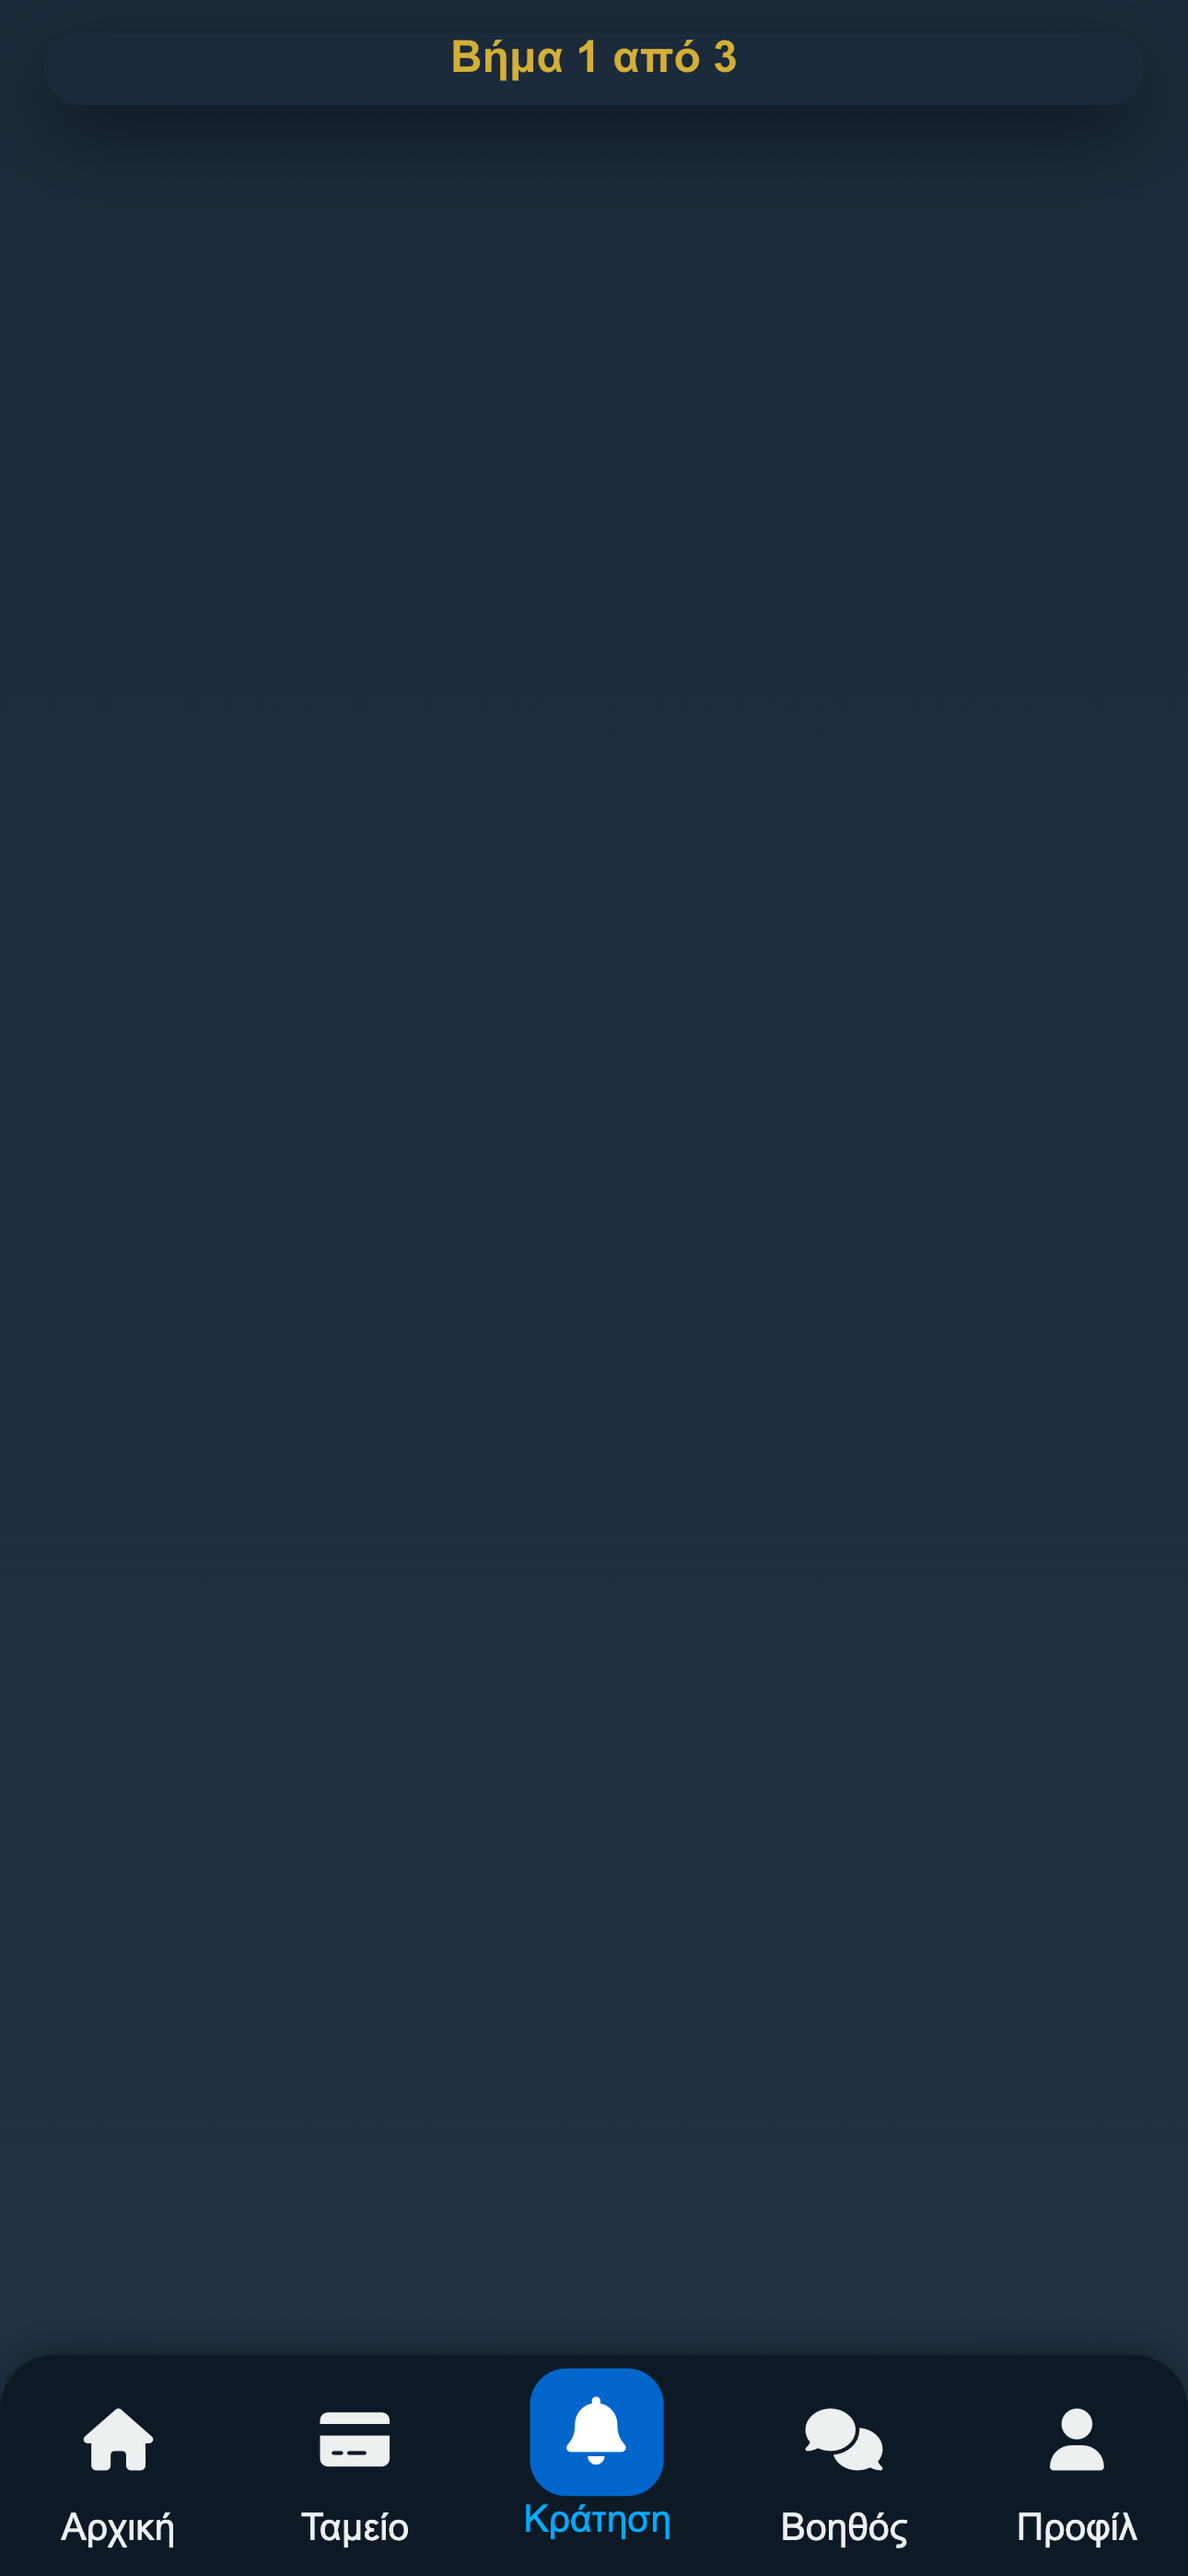
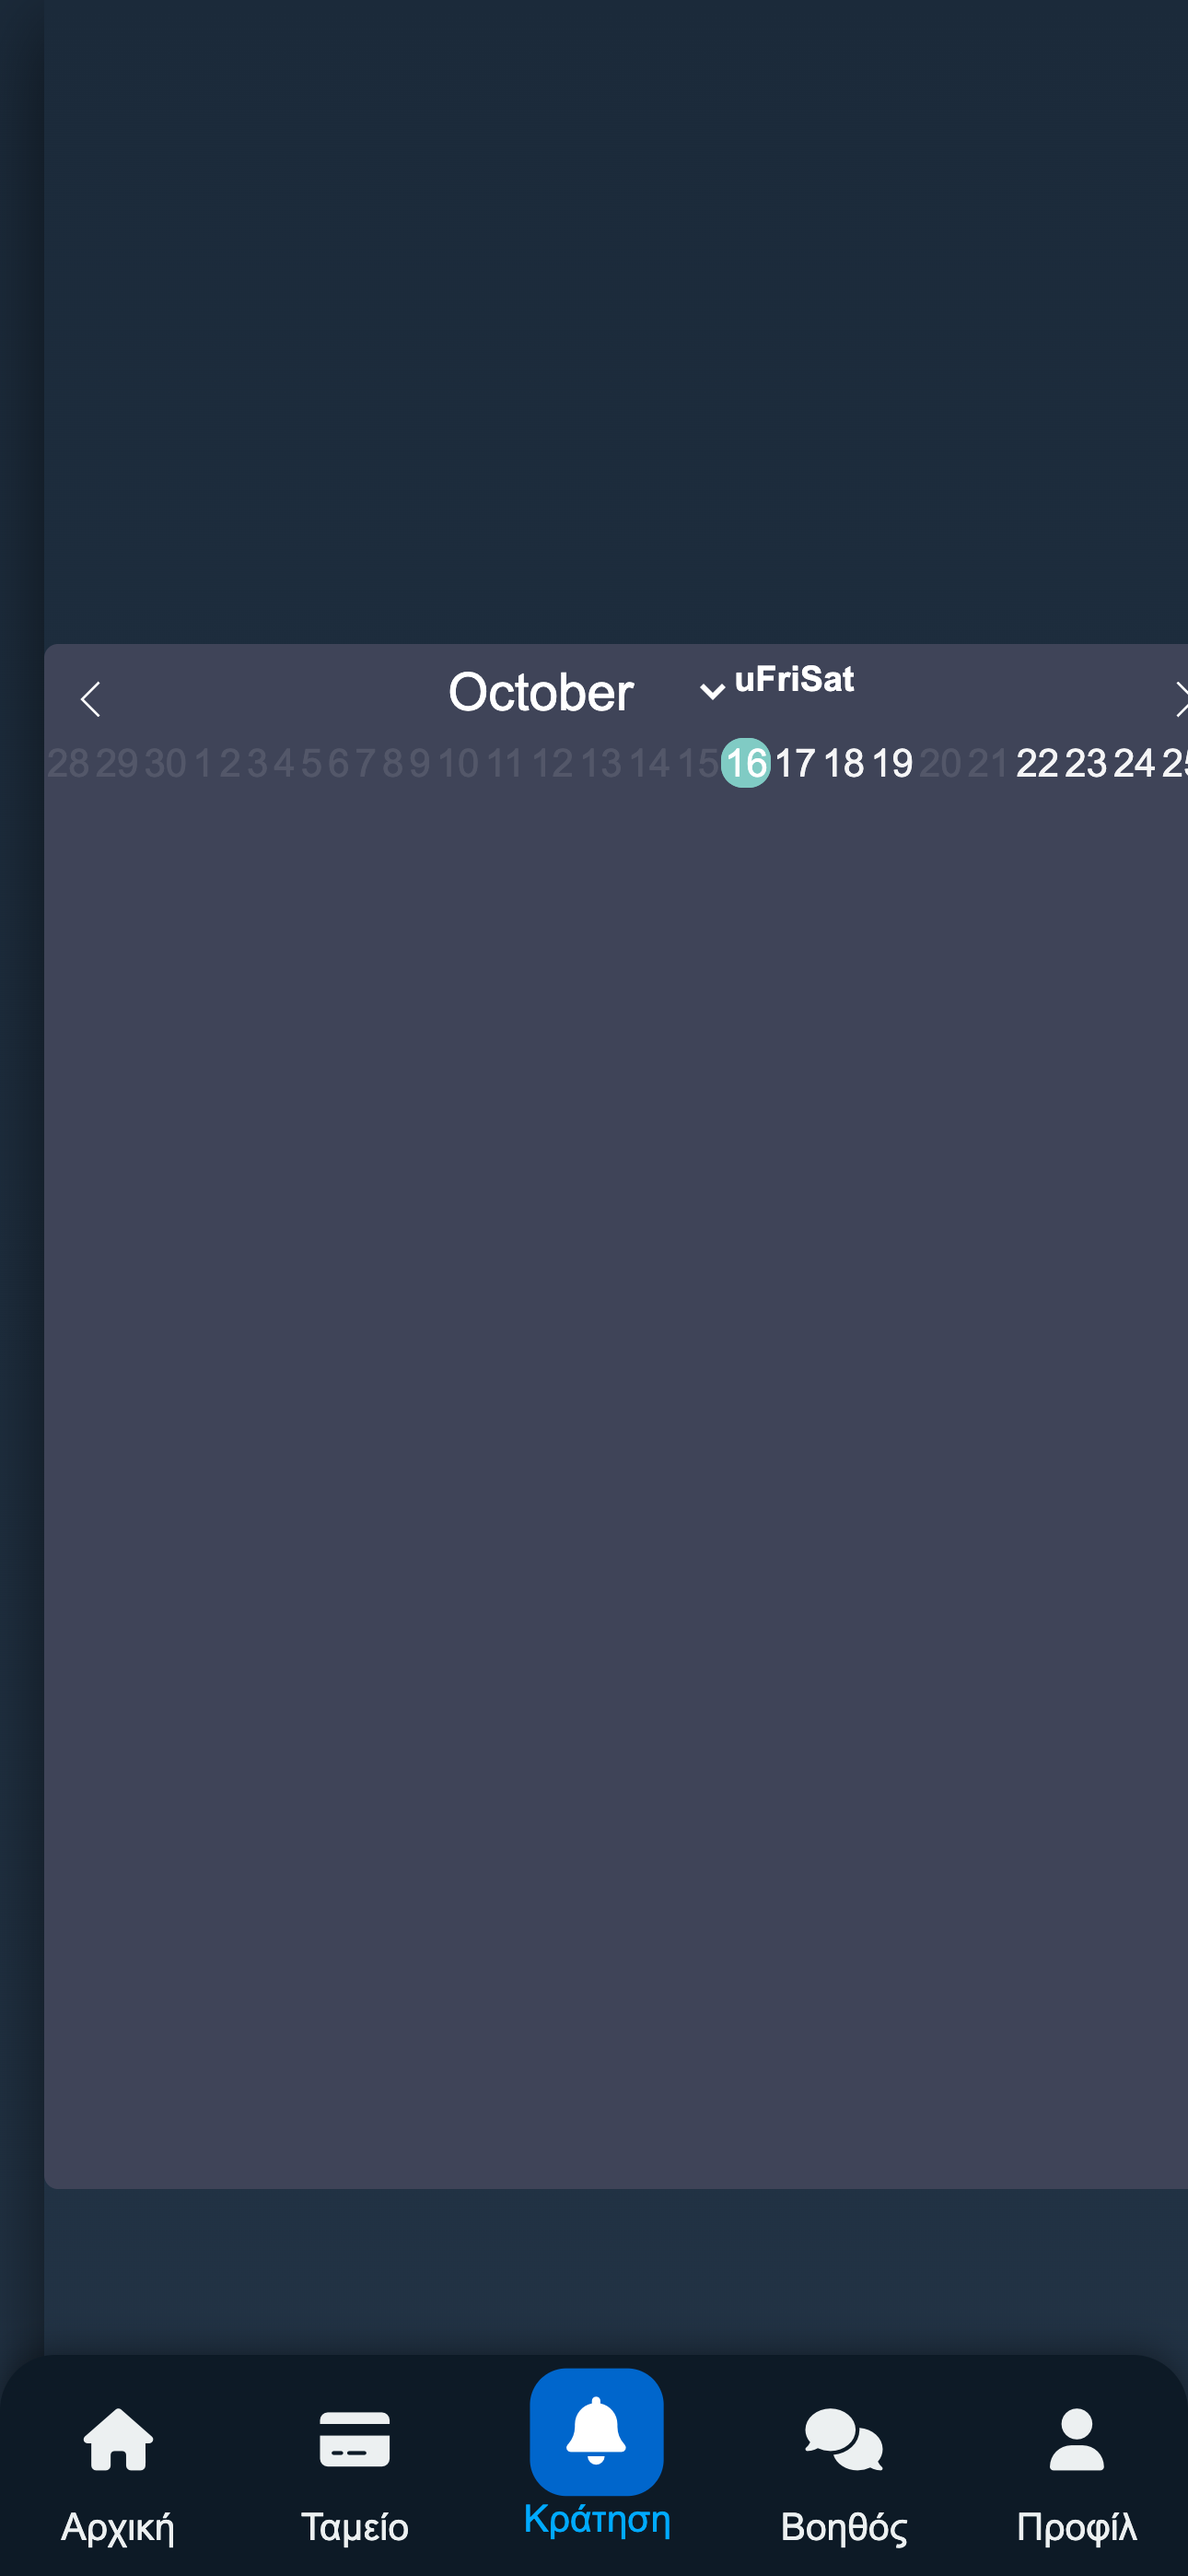
236

diff --git a/public/css/booking.css b/public/css/booking.css
@@ -3,30 +3,85 @@
 /* Cinematic entrance for overlay content */
 @keyframes bookingFadeSlideUp {
   0% { opacity: 0; transform: translateY(10px); }
-  #bookingOverlay {
-    background: linear-gradient(180deg, #1B2A3A 0%, #223345 100%) !important;
-    min-height: 100vh;
-    #bookingOverlay {
-      background: linear-gradient(180deg, #1B2A3A 0%, #223345 100%) !important;
-      min-height: 100vh;
-      width: 100%;
-      display: block;
-    }
+}
 
-    #bookingOverlay .overlay-inner,
-    #bookingOverlay .close-overlay,
-    #bookingOverlay .booking-step,
-    #bookingOverlay .calendar-full,
-    #bookingOverlay #calendarFull,
-    #bookingOverlay .flatpickr-calendar {
-      display: none !important;
-      visibility: hidden !important;
-    }
+#bookingOverlay {
+  background: linear-gradient(180deg, #1B2A3A 0%, #223345 100%) !important;
+  min-height: 100vh;
+  width: 100%;
+  display: block;
+}
 
-    footer {
-      display: block !important;
-      visibility: visible !important;
-      position: fixed;
-      bottom: 0;
-      width: 100%;
-    }
+/* Hide non-calendar UI but keep Step 1 containers visible so calendar can render */
+/* Keep #step1 and its .calendar-card in the layout; hide other siblings and non-essential elements */
+#bookingOverlay .overlay-inner > :not(#step1):not(.calendar-full),
+#bookingOverlay .close-overlay,
+#bookingOverlay button,
+#bookingOverlay .btn,
+#bookingOverlay h1,
+#bookingOverlay h2,
+#bookingOverlay h3,
+#bookingOverlay p { display: none !important; visibility: hidden !important; }
+
+/* Inside step1, hide meta/actions to keep calendar-only view */
+#bookingOverlay #step1 .step-meta,
+#bookingOverlay #step1 .booking-actions,
+#bookingOverlay #step1 #availabilityBlock { display: none !important; visibility: hidden !important; }
+
+/* Ensure the calendar subtree is visible */
+#bookingOverlay .overlay-inner,
+#bookingOverlay .calendar-full,
+#bookingOverlay .calendar-full *,
+#bookingOverlay .flatpickr-calendar,
+#bookingOverlay .flatpickr-calendar * { display: initial !important; visibility: visible !important; }
+
+/* Reveal only the container and the calendar */
+#bookingOverlay .overlay-inner {
+  display: block !important;
+  visibility: visible !important;
+  background: transparent !important;
+  width: 100% !important;
+  height: 100% !important;
+  margin: 0 !important;
+  padding: 0 !important;
+  border: none !important;
+  position: relative !important; /* anchor for absolute calendar */
+}
+
+/* Ensure step1 and the calendar card are visible containers (ancestors of .calendar-full) */
+#bookingOverlay #step1,
+#bookingOverlay #step1 .calendar-card { display: block !important; visibility: visible !important; background: transparent !important; border: none !important; box-shadow: none !important; margin: 0 !important; padding: 0 !important; }
+
+/* Middle band: 60% height, with 25% top empty and 15% bottom empty */
+#bookingOverlay .calendar-full {
+  display: block !important;
+  visibility: visible !important;
+  position: absolute !important;
+  top: 25vh; left: 0; right: 0;
+  width: 100%; height: 60vh;
+  margin: 0 !important; padding: 0 !important;
+  border: none !important; border-radius: 0 !important;
+  background: transparent !important; box-shadow: none !important;
+  overflow: hidden !important;
+}
+
+/* Hide the input itself; render only the inline calendar UI */
+#bookingOverlay #calendarFull {
+  display: block !important; /* required for flatpickr to attach */
+  position: absolute !important;
+  width: 0 !important; height: 0 !important;
+  opacity: 0 !important; pointer-events: none !important;
+  visibility: hidden !important;
+}
+
+/* Make the inline flatpickr calendar fill the middle band edge-to-edge */
+#bookingOverlay .flatpickr-calendar {
+  display: block !important;
+  visibility: visible !important;
+  position: absolute !important;
+  inset: 0 !important;
+  width: 100% !important; height: 100% !important;
+  box-shadow: none !important; border: none !important;
+}
+
+/* Footer is globally styled in style.css; avoid sizing overrides here */

diff --git a/tools/debug_calendar.js b/tools/debug_calendar.js
@@ -1,0 +1,87 @@
+const puppeteer = require('puppeteer');
+
+(async () => {
+  const browser = await puppeteer.launch({ headless: true });
+  const page = await browser.newPage();
+  const logs = [];
+  page.on('console', msg => logs.push({ type: msg.type(), text: msg.text() }));
+  page.on('pageerror', err => logs.push({ type: 'pageerror', text: err.message }));
+
+  try {
+    await page.goto('http://localhost:3000/trips/trip.html?id=olympia', { waitUntil: 'networkidle2', timeout: 30000 });
+    await page.waitForSelector('footer a.central-btn', { timeout: 15000 });
+    await page.click('footer a.central-btn');
+    await page.waitForSelector('#bookingOverlay', { timeout: 15000 });
+
+    // Wait a bit for main.js to inject step1 and flatpickr
+    await page.waitForFunction(() => !!document.querySelector('#calendarFull'), { timeout: 15000 });
+
+    // Collect diagnostics about calendar element and flatpickr
+    const diag = await page.evaluate(() => {
+      const ret = { flags: {}, nodes: {}, styles: {}, errors: [] };
+      try { ret.flags.GW_DISABLE_BOOKING_CALENDAR = !!window.GW_DISABLE_BOOKING_CALENDAR; } catch(e) { ret.flags.GW_DISABLE_BOOKING_CALENDAR = 'unavailable'; }
+      ret.flags.hasFlatpickr = !!(window.flatpickr);
+
+      const overlay = document.getElementById('bookingOverlay');
+      const step1 = document.getElementById('step1');
+      const calInput = document.getElementById('calendarFull');
+      const fp = document.querySelector('#bookingOverlay .flatpickr-calendar');
+      ret.nodes.overlayActive = overlay && (overlay.classList.contains('active') || overlay.style.display !== 'none');
+      ret.nodes.step1Exists = !!step1;
+      ret.nodes.calInputExists = !!calInput;
+      ret.nodes.fpExists = !!fp;
+
+      function dumpComputed(el) {
+        if (!el) return null;
+        const cs = getComputedStyle(el);
+        return {
+          display: cs.display,
+          visibility: cs.visibility,
+          opacity: cs.opacity,
+          position: cs.position,
+          width: el.offsetWidth,
+          height: el.offsetHeight,
+          top: cs.top,
+          left: cs.left,
+          zIndex: cs.zIndex
+        };
+      }
+
+      ret.styles.overlay = dumpComputed(overlay);
+      ret.styles.overlayInner = dumpComputed(document.querySelector('#bookingOverlay .overlay-inner'));
+      ret.styles.step1 = dumpComputed(step1);
+      ret.styles.calendarCard = dumpComputed(step1 && step1.querySelector('.calendar-card'));
+      ret.styles.calendarFull = dumpComputed(step1 && step1.querySelector('.calendar-full'));
+      ret.styles.fp = dumpComputed(fp);
+
+      // Check bounding rects
+      const rects = {};
+      try { rects.calendarFull = (step1 && step1.querySelector('.calendar-full')) ? step1.querySelector('.calendar-full').getBoundingClientRect() : null; } catch(e){}
+      try { rects.fp = fp ? fp.getBoundingClientRect() : null; } catch(e){}
+      ret.rects = rects;
+
+      // Check input value (flatpickr should set defaultDate)
+      ret.inputValue = calInput && calInput.value || '';
+
+      return ret;
+    });
+
+    console.log('---CALENDAR_DEBUG_START---');
+    console.log(JSON.stringify(diag, null, 2));
+    console.log('---CALENDAR_DEBUG_END---');
+
+    if (!diag.nodes.fpExists) {
+      console.error('flatpickr-calendar element not found.');
+      process.exitCode = 2;
+    } else {
+      // Save a screenshot
+      await page.screenshot({ path: 'debug_calendar.png' });
+      console.log('Saved debug_calendar.png');
+    }
+  } catch (e) {
+    console.error('debug_calendar failed:', e && e.message ? e.message : e);
+    process.exitCode = 2;
+  } finally {
+    await browser.close();
+  }
+})();

diff --git a/public/js/main.js b/public/js/main.js
@@ -10,6 +10,10 @@ const G = {
   error: (...a) => { if (G.debug) console.error(...a); }
 };
 
+// Temporary flag to disable any flatpickr calendar initialization in the booking overlay
+// Allow only the inline calendar inside the overlay; prevent other calendars/popups
+const GW_DISABLE_BOOKING_CALENDAR = false;
+
 // Global i18n helpers used by multiple blocks
 function getCurrentLang() {
   return (window.currentI18n && window.currentI18n.lang) || localStorage.getItem('gw_lang') || 'el';
@@ -306,7 +310,7 @@ document.addEventListener("DOMContentLoaded", () => {
           const calEl = document.getElementById('calendarFull');
           const trip = window.__loadedTrip || {};
           const disabledDates = trip.unavailable_dates || [];
-          if (window.flatpickr && calEl) {
+          if (!GW_DISABLE_BOOKING_CALENDAR && window.flatpickr && calEl) {
             window.flatpickr(calEl, {
               inline: true,
               altInput: false,
@@ -689,7 +693,7 @@ document.addEventListener("DOMContentLoaded", () => {
               dateEl.setAttribute('min', iso);
               // init flatpickr for a modern calendar picker (dark theme)
               try {
-                if (window.flatpickr) {
+                if (!GW_DISABLE_BOOKING_CALENDAR && window.flatpickr) {
                   window.flatpickr(dateEl, {
                     altInput: true,
                     altFormat: 'd F Y',

diff --git a/public/css/style.css b/public/css/style.css
@@ -22,7 +22,7 @@ body {
   background: var(--site-gradient);
   color: #ecf0f1;
   text-align: center;
-  padding-bottom: 80px; /* χώρος για footer */
+  padding-bottom: 64px; /* reserve space matching global footer height */
   transition: background 0.4s, color 0.4s;
 }
 
@@ -89,9 +89,10 @@ footer {
   display: flex;
   justify-content: space-around;
   align-items: center;
-  padding: 0.6rem 0;
+  /* unified height/padding will be enforced below; keep minimal here */
+  padding: 8px 0;
   border-radius: 20px 20px 0 0;
-  z-index: 1000;
+  z-index: 12000; /* above overlay (which is z-index: 10000) */
   box-shadow: 0 -2px 12px rgba(0,0,0,0.4);
 }
 footer a {
@@ -385,6 +386,9 @@ html.overlay-open { overflow: hidden; }
 body.rtl footer {
   direction: ltr; /* keep layout left-to-right */
 }
+
+/* Global enforcement: consistent footer height and vertical padding across all pages */
+footer { height: 64px !important; padding: 8px 0 !important; }
 
 
 /* ===== Category page panel (as in screenshot) ===== */

diff --git a/tools/capture_booking_step1_desktop.js b/tools/capture_booking_step1_desktop.js
@@ -1,0 +1,22 @@
+const puppeteer = require('puppeteer');
+
+(async () => {
+  const browser = await puppeteer.launch({ headless: true });
+  const page = await browser.newPage();
+  try {
+    await page.setViewport({ width: 1280, height: 800, deviceScaleFactor: 2 });
+    await page.goto('http://localhost:3000/trips/trip.html?id=olympia', { waitUntil: 'networkidle2' });
+    await page.waitForSelector('footer a.central-btn', { timeout: 15000 });
+    await page.click('footer a.central-btn');
+    await page.waitForSelector('#bookingOverlay.active', { timeout: 15000 });
+    await page.waitForSelector('#bookingOverlay .flatpickr-calendar', { timeout: 15000 });
+    await page.waitForTimeout(400);
+    await page.screenshot({ path: 'booking_step1_desktop.png' });
+    console.log('Saved booking_step1_desktop.png');
+  } catch (e) {
+    console.error('Desktop STEP1 capture failed:', e && e.message ? e.message : e);
+    process.exitCode = 2;
+  } finally {
+    await browser.close();
+  }
+})();

diff --git a/public/css/trip.css b/public/css/trip.css
@@ -384,18 +384,7 @@ body[data-view="trip"] .trip-card h3 {
 }
 
 /* Footer */
-footer {
-  position: fixed;
-  bottom: 0; left: 0; right: 0;
-  background: #0d1a26;
-  display: flex;
-  justify-content: space-around;
-  align-items: center;
-  padding: 0.6rem 0;
-  border-radius: 20px 20px 0 0;
-  box-shadow: 0 -2px 12px rgba(0,0,0,0.4);
-  z-index: 1000;
-}
+/* Footer sizing/layout is governed globally in style.css to ensure consistency */
 
 footer a {
   color: #ecf0f1;
